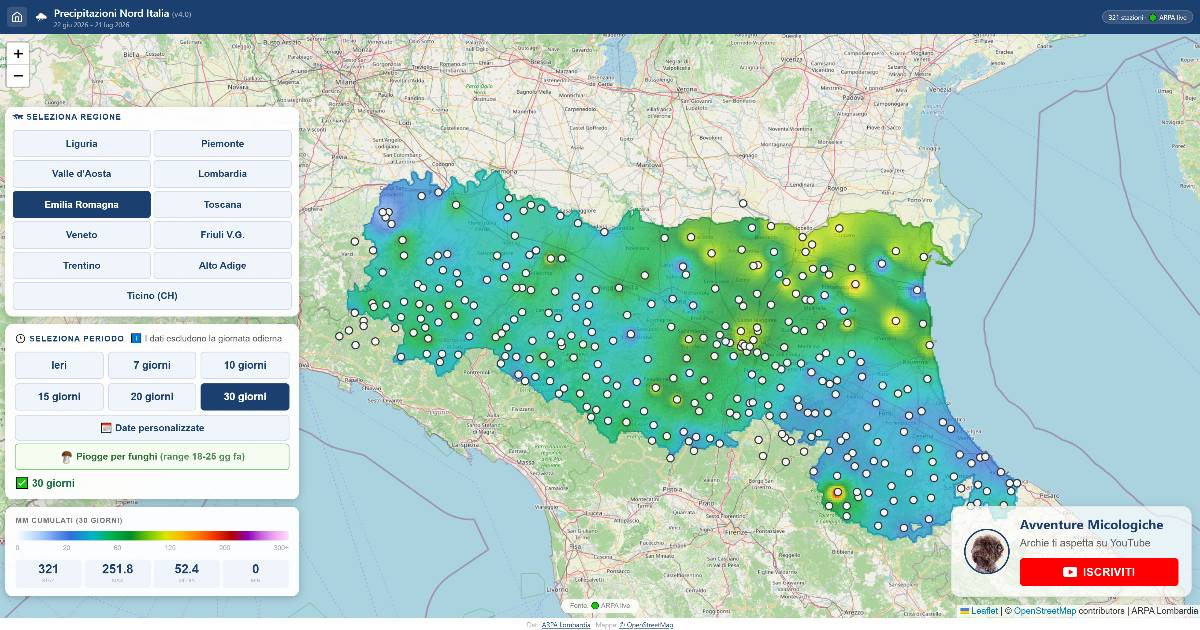
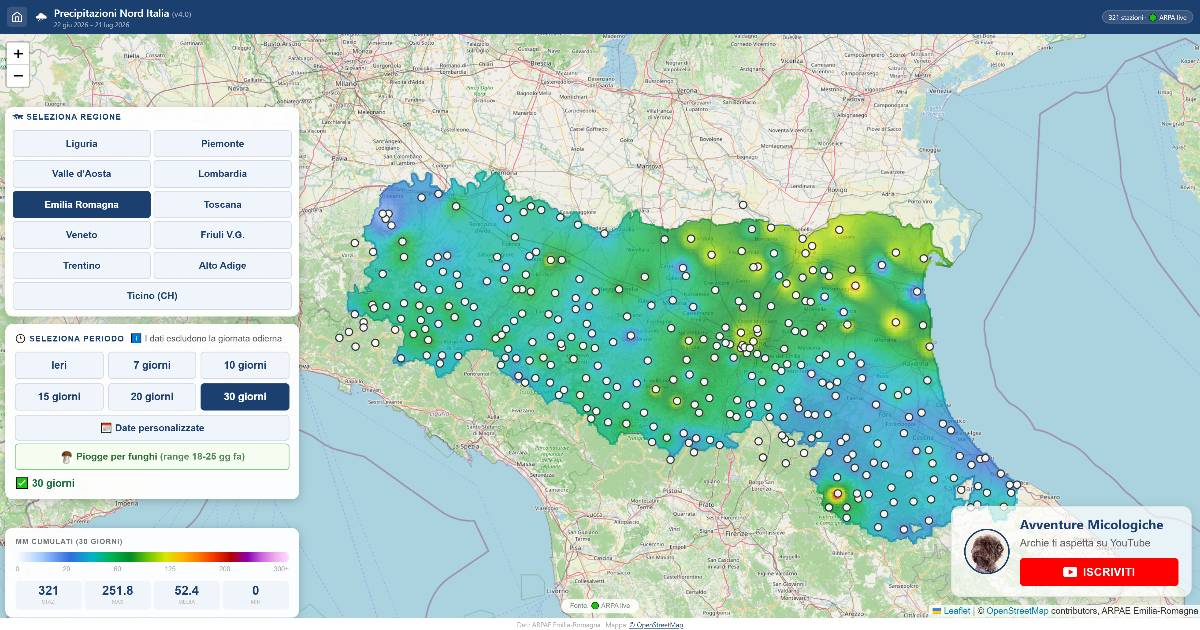
Allineamento a produzione: crediti fonti dinamici e nuova anteprima

diff --git a/index.html b/index.html
@@ -846,7 +846,7 @@ h1{font-size:14px;font-weight:600;white-space:nowrap}
 </div>
 
 <div class="fonte">
-  Dati: <a href="https://www.dati.lombardia.it" target="_blank">ARPA Lombardia</a> ·
+  Dati: <span id="fonte-dati">agenzie regionali</span> ·
   Mappa: <a href="https://www.openstreetmap.org/copyright" target="_blank">© OpenStreetMap</a>
 </div>
 
@@ -1521,8 +1521,25 @@ var initCenter=(screenW<=900)?[44.8,9.5]:[45.0,9.5];
 var map=L.map('map',{zoomSnap:0.5,zoomDelta:0.5}).setView(initCenter, initZoom);
 L.tileLayer('https://{s}.tile.openstreetmap.org/{z}/{x}/{y}.png',{
   maxZoom:19,subdomains:'abc',
-  attribution:'© <a href="https://www.openstreetmap.org/copyright">OpenStreetMap</a> contributors | ARPA Lombardia'
+  attribution:'© <a href="https://www.openstreetmap.org/copyright">OpenStreetMap</a> contributors'
 }).addTo(map);
+
+// ─── Crediti delle fonti dati ──────────────────────────────────
+// Fino al 22 luglio 2026 sia il piè di pagina sia l'attribuzione Leaflet
+// dicevano "ARPA Lombardia" fisso, qualunque regione fosse selezionata:
+// sbagliato verso le altre agenzie, e finiva pure nell'anteprima social.
+// Ora seguono le regioni attive.
+var _creditoAttuale = null;
+function aggiornaCrediti(testo){
+  if(!testo) return;
+  var el=document.getElementById('fonte-dati');
+  if(el) el.textContent=testo;
+  if(map.attributionControl){
+    if(_creditoAttuale) map.attributionControl.removeAttribution(_creditoAttuale);
+    _creditoAttuale=testo;
+    map.attributionControl.addAttribution(testo);
+  }
+}
 
 // ═══════════════════════════════════════════════════════════════
 // STATO
@@ -2405,6 +2422,13 @@ function renderMulti(allData, labelPeriodo, fontiArr){
   }).filter(function(v,i,a){return a.indexOf(v)===i;}).join(' + ');
   document.getElementById('fonte-tag').textContent='Fonte: '+fonteStr;
   lastUsedFonte=fonteStr;
+
+  // Per i crediti si usano i nomi canonici delle regioni attive, non le
+  // etichette runtime: quelle dicono cose tipo "ARPA live", che come
+  // attribuzione a chi fornisce i dati non basta.
+  aggiornaCrediti(regions.map(function(rk){
+    return REGIONS[rk]?REGIONS[rk].fonte:null;
+  }).filter(function(v,i,a){return v && a.indexOf(v)===i;}).join(' · '));
   render(allData, fonteStr, labelPeriodo, allRings);
 }
 